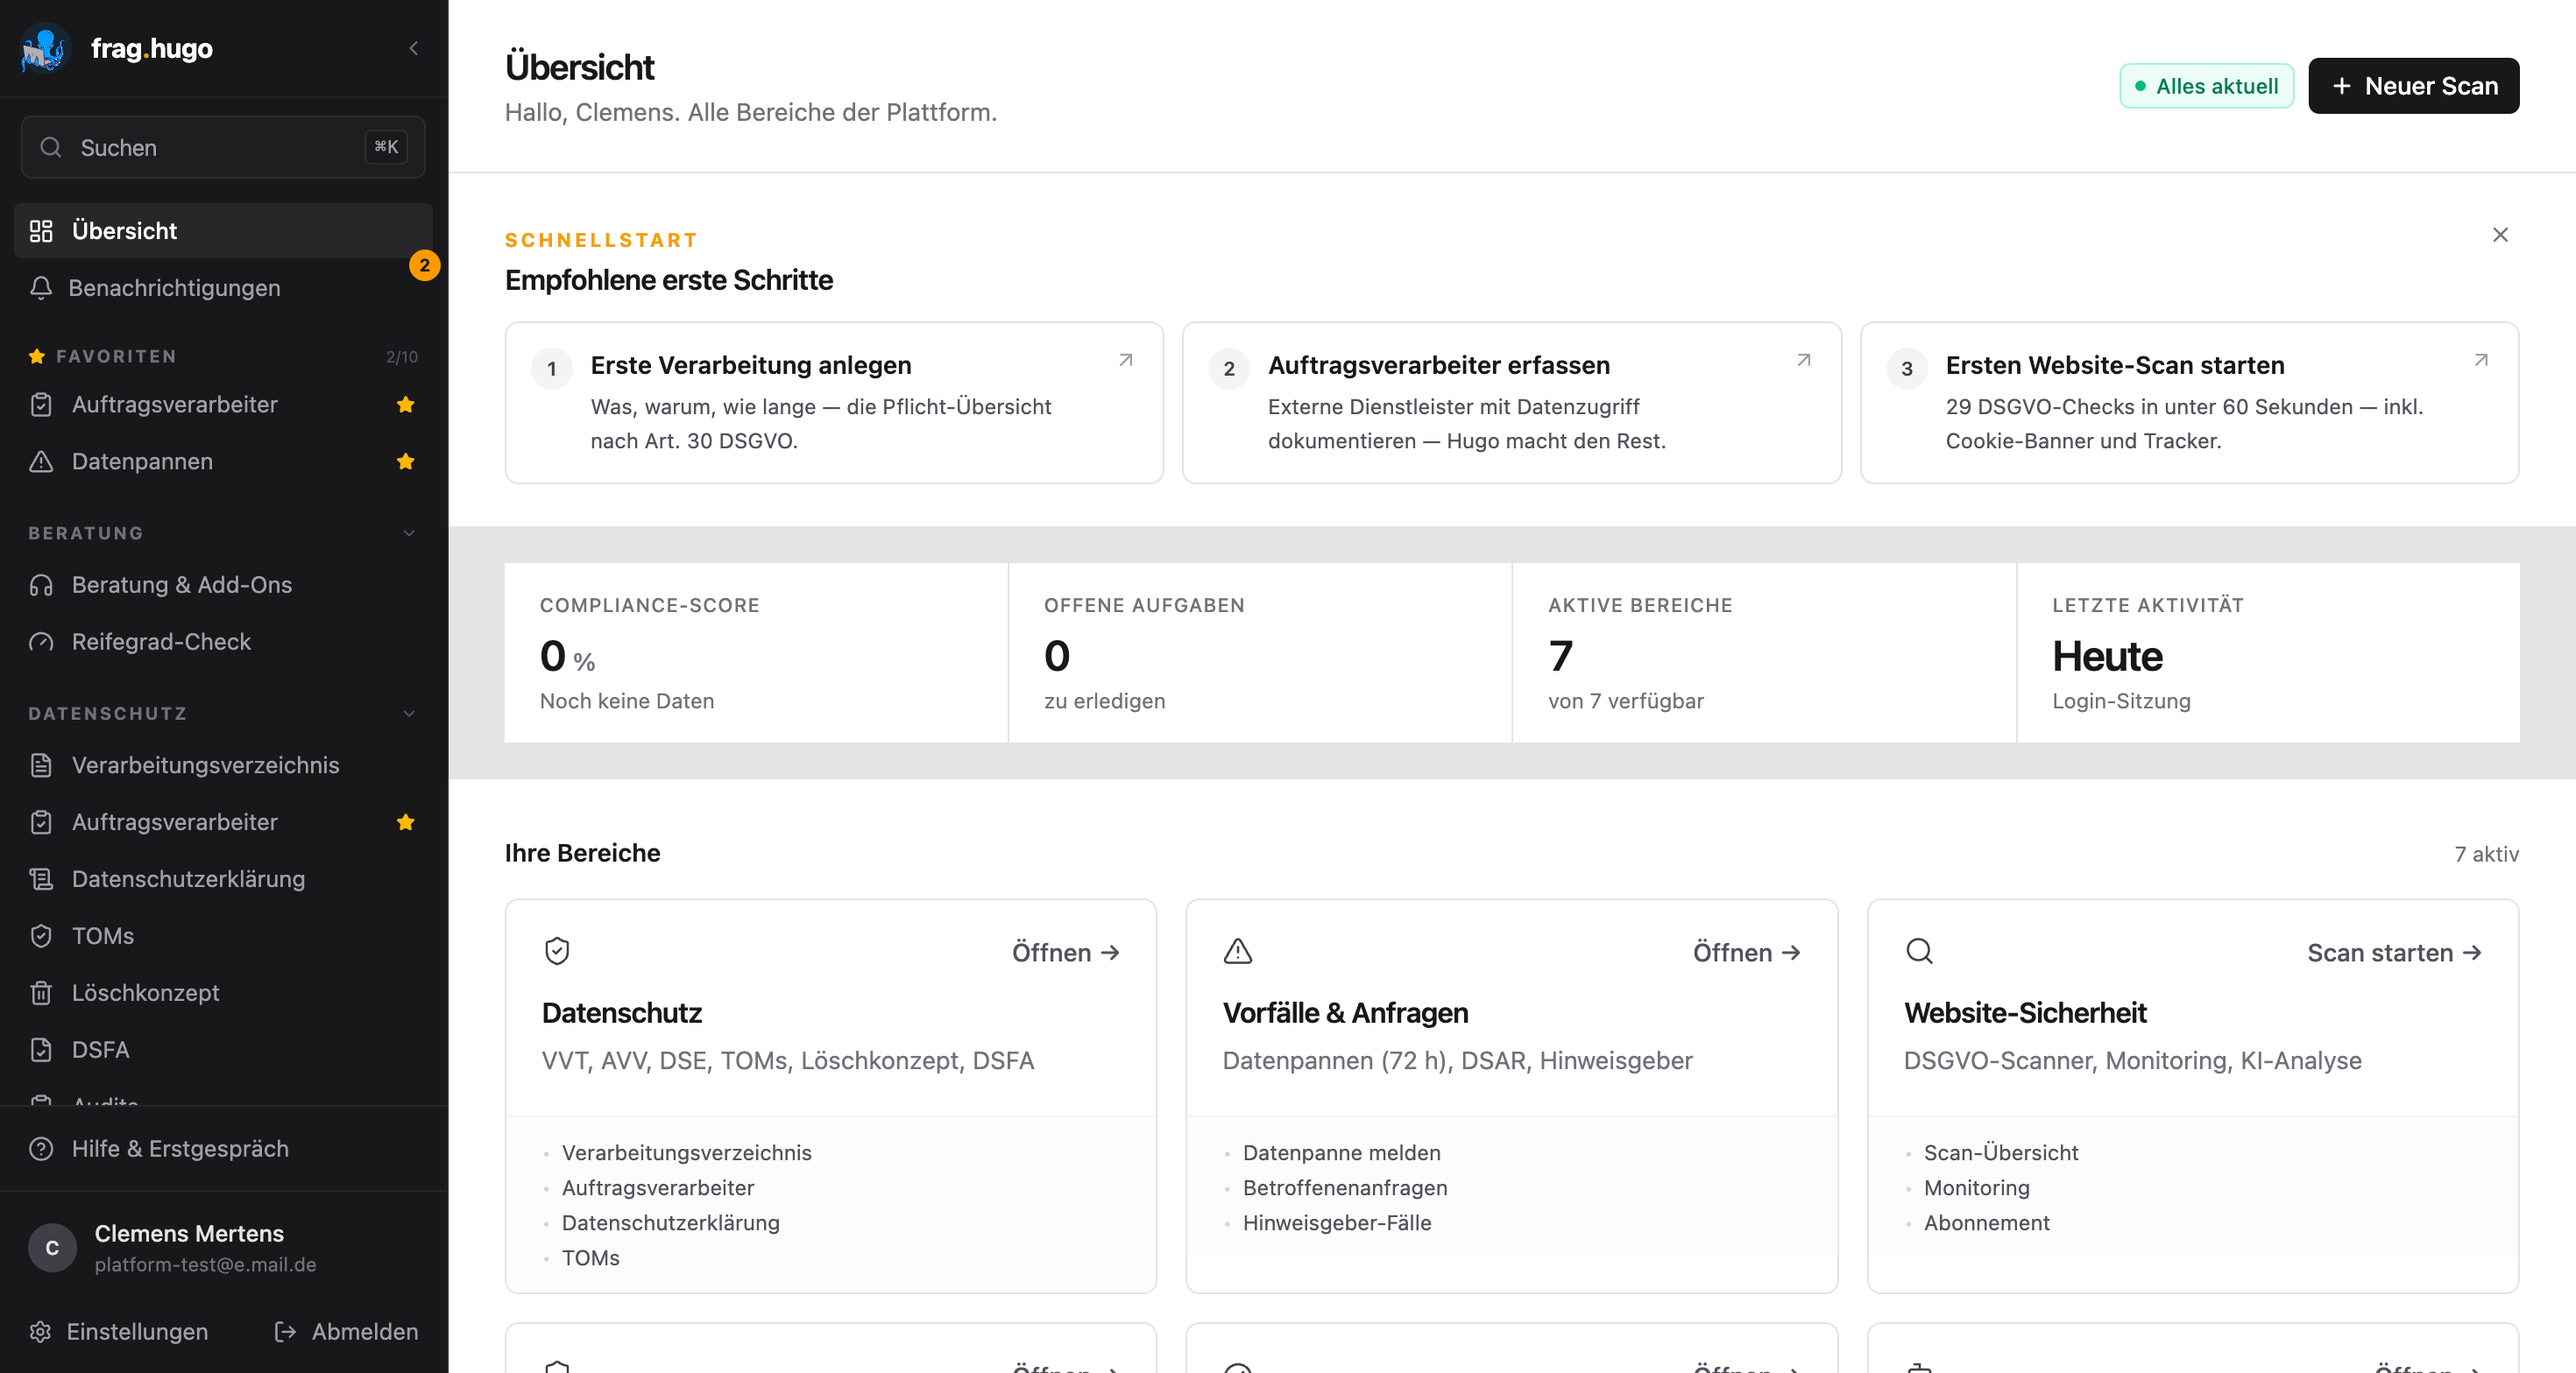
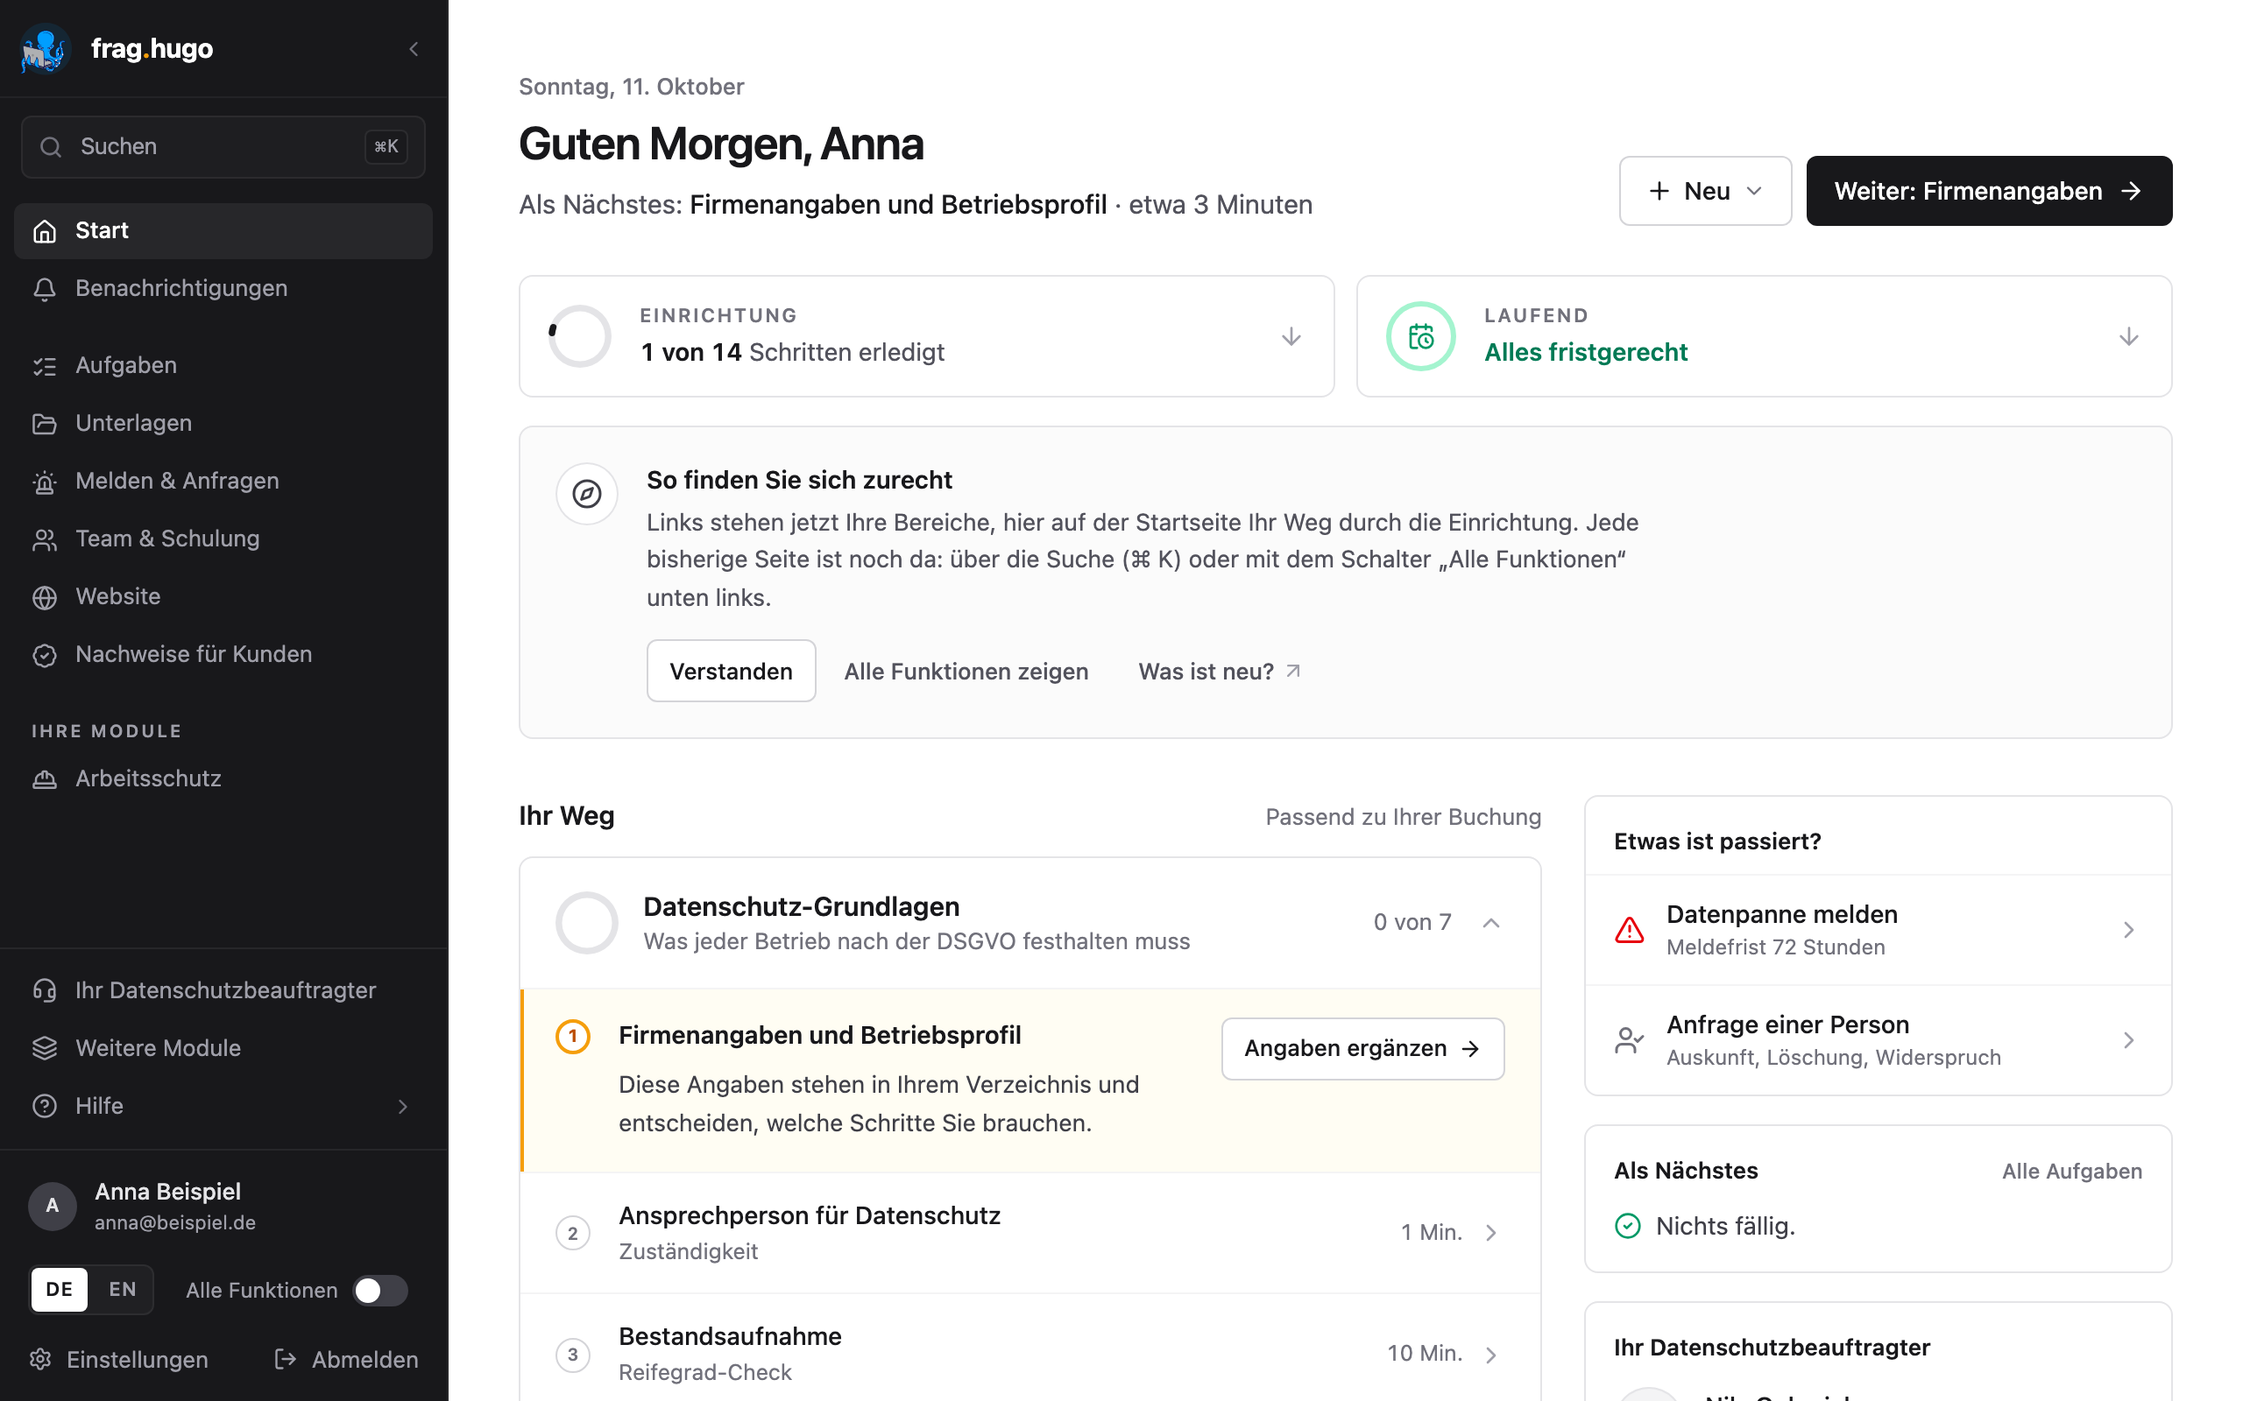
docs(erste-schritte): Startseite und Navigation auf Ihr Weg, Bereiche, Suche und Alle Funktionen umgestellt, Bilder Desktop+Handy erneuert, Trust-Badge-Pfad (A39) [skip ci]

diff --git a/src/content/docs/erste-schritte/dashboard.md b/src/content/docs/erste-schritte/dashboard.md
@@ -1,34 +1,58 @@
 ---
-title: Dashboard verstehen
-description: Die zentrale Startseite — Schnellstart, Compliance-Score, offene Aufgaben und alle Bereiche auf einen Blick.
+title: Startseite und Navigation
+description: Die Startseite mit „Ihr Weg“ durch die Einrichtung, die Bereiche in der Seitenleiste, die Suche und der Schalter „Alle Funktionen“.
 ---
 
-Wenn Sie eingeloggt sind, landest Sie immer hier. Das Dashboard ist Ihre Schaltzentrale.
+Nach der Anmeldung landen Sie auf der **Startseite**. Sie zeigt, was als Nächstes zu tun ist, und führt Sie mit **„Ihr Weg“** Schritt für Schritt durch die Einrichtung — passend zu dem, was Sie gebucht haben.
 
-![Dashboard mit Schnellstart und Bereichs-Karten](/screenshots/erste-schritte/dashboard.png)
+![Die Startseite: links die Bereiche, rechts „Ihr Weg“ mit dem nächsten Schritt](/screenshots/erste-schritte/dashboard.png)
 
-## Was Sie hier siehst
+## Die Startseite
 
-- **Schnellstart** — drei nummerierte Karten, was als nächstes zu tun ist. Erstes Mal eingeloggt? Hier sehen Sie "Erste Verarbeitung anlegen", "Auftragsverarbeiter erfassen", "Website-Scan starten". Sobald erledigt, verschwinden sie.
-- **Compliance-Score** (oben rechts) — eine Zahl 0–100 % über alle Bereiche hinweg. 100 % heißt: alle Pflichten aktuell, alle Reviews durch, keine offenen Aufgaben.
-- **Offene Aufgaben** — alles was auf Sie wartet: zu prüfende Dokumente, fällige Re-Audits, abgelaufene Schulungen.
-- **Letzte Aktivität** — Audit-Log der letzten Stunden (Wer hat was geändert).
-- **Ihre Bereiche** — Karten für Datenschutz, Vorfälle, Website-Sicherheit, Lieferkette, NIS2, KI-Compliance, Schulungen. Nur die Bereiche werden gezeigt, die Sie gebucht hast.
+- **Kopf** — Begrüßung und eine Zeile „Als Nächstes: …“ mit der ungefähren Dauer. Der schwarze Knopf **„Weiter: …“** führt direkt zum nächsten Schritt. Ist alles eingerichtet, entfällt er.
+- **„＋ Neu“** — ein Menü zum schnellen Anlegen: Verarbeitung, Dienstleister, Aufgabe, Mitarbeitende, Website-Prüfung, und zum Melden einer Datenpanne oder einer Anfrage einer Person. Sie sehen nur, was zu Ihrer Buchung gehört.
+- **Einrichtung** — wie viele Schritte Ihres Wegs erledigt sind („3 von 14“). Ein Klick springt zum Weg.
+- **Laufend** — ob Fristen anstehen: „Alles fristgerecht“, „bald fällig“ (innerhalb von sieben Tagen) oder „überfällig“.
+- **Ihr Weg** — die Einrichtungsschritte, gruppiert nach Themen wie „Datenschutz-Grundlagen“, „Team & Schulung“ oder „Website“. Aufgeklappt ist immer das Thema mit dem nächsten Schritt.
+- **Rechte Spalte** — „Etwas ist passiert?“ (Datenpanne melden, Anfrage einer Person erfassen), „Als Nächstes“ mit den fälligen Aufgaben und die Karte **„Ihr Datenschutzbeauftragter“**, falls Sie ihn bei uns gebucht haben.
 
-## Sidebar (links)
+### So funktioniert „Ihr Weg“
 
-Permanent sichtbare Navigation. Drei Tricks:
+- **Schritte haken sich selbst ab.** Ein Schritt gilt als erledigt, sobald das Ergebnis in der App steht — zum Beispiel die erste Verarbeitung angelegt oder der erste Dienstleister erfasst. Sie müssen nichts von Hand abhaken.
+- **Der aktuelle Schritt** ist gelb hinterlegt und erklärt in einem Satz, wozu er dient. Alle anderen Zeilen sind direkt anklickbar.
+- **„Übernimmt Ihr Datenschutzbeauftragter“** steht an Schritten, die Ihr Datenschutzbeauftragter für Sie erledigt.
+- **„Für Ihren Betrieb nicht nötig“** — Schritte, die laut Ihren Firmenangaben (Betriebsprofil) nicht gebraucht werden, zählen nicht mit. Über „Betriebsprofil ändern“ passen Sie das an.
+- **„freiwillig“** steht an Schritten, die sinnvoll sind, aber nicht zählen.
+- **Alles erledigt?** Dann schrumpft der Weg zu einer Zeile „Ihr Weg ist abgeschlossen“, und „Als Nächstes“ rückt nach oben.
 
-- **Favoriten** (Stern-Icon) — bis zu 10 Lieblings-Pages oben festpinnen, per Drag-Sortierung.
-- **Letzte** (Uhr-Icon) — automatische Liste der zuletzt besuchten Pages.
-- **Schnellsuche** (⌘ K bzw. Strg + K) — sucht über alle Funktionen und springt direkt hin.
+## Die Seitenleiste (links)
 
-## Header-Aktionen (oben rechts)
+Statt vieler Einzelpunkte stehen links **Bereiche**:
 
-- **🔔 Glocke** — Echtzeit-Benachrichtigungen (neue Datenpanne, fällige Schulung, beantwortete DSAR).
-- **Profil-Avatar** — Einstellungen, Abmelden, Mandanten-Wechsel falls Sie in mehreren Firmen arbeitest.
+- **Oben:** die **Suche**, **Start** und **Benachrichtigungen**. Darunter Seiten, die Sie angepinnt haben.
+- **Bereiche** wie „Aufgaben“, „Unterlagen“, „Melden & Anfragen“, „Team & Schulung“, „Website“ und „Nachweise für Kunden“. Ein Klick öffnet den Bereich; der Bereich, in dem Sie gerade sind, zeigt darunter seine einzelnen Seiten.
+- **Ihre Module** — Zusatzprodukte wie KI im Unternehmen, NIS2, Informationssicherheit, Hersteller-Pflichten, Arbeitsschutz oder Lieferkette, soweit gebucht.
+- **Unten:** „Ihr Datenschutzbeauftragter“ (Beratung und Stunden), „Weitere Module“ (was Sie dazubuchen können) und **„Hilfe“** mit der Hilfe zu der Seite, auf der Sie gerade sind, einem Link zur Terminbuchung und zu Beratung & Kontakt.
+- **Ganz unten:** Ihr Name, die Sprache (DE | EN), **Einstellungen**, **Abmelden** und der Schalter **„Alle Funktionen“**.
+
+Auf jeder Unterseite steht über dem Inhalt ein kleiner Link **„‹ Bereich“**, der zurück zur Übersicht des Bereichs führt.
+
+### „Alle Funktionen“ — die vollständige Liste
+
+Wenn Sie lieber jeden Menüpunkt einzeln sehen, schalten Sie unten in der Seitenleiste **„Alle Funktionen“** ein. Die App merkt sich die Einstellung für Ihr Konto; Sie können jederzeit zurückschalten. Wo jeder frühere Menüpunkt jetzt steht, zeigt die Tabelle auf [Was ist neu](/erste-schritte/was-ist-neu/).
+
+## Suche
+
+<kbd>⌘</kbd> <kbd>K</kbd> (Mac) bzw. <kbd>Strg</kbd> <kbd>K</kbd> (Windows) oder ein Klick auf „Suchen“ öffnet die Suche. Sie findet jede Seite — unter dem neuen Namen und unter dem Fachwort („VVT“, „TOMs“, „Löschkonzept“, „DSFA“). Bei leerem Suchfeld stehen oben die **zuletzt besuchten** Seiten, darunter die Gruppe **„Anlegen“** mit denselben Einträgen wie das Menü „＋ Neu“.
+
+## Auf dem Handy
+
+![Die Startseite auf dem Handy mit Kopfleiste, Weiter-Knopf und „Etwas ist passiert?“](/screenshots/erste-schritte/startseite-handy.png)
+
+Oben steht eine feste Kopfleiste: links das **Menü** (es enthält alles, was am Computer in der Seitenleiste steht, auch den Schalter „Alle Funktionen“), rechts die **Lupe** für die Suche. Auf Unterseiten zeigt die Kopfleiste den Bereich als Link zurück. „Datenpanne melden“ und „Anfrage einer Person erfassen“ stehen auf dem Handy direkt unter dem Weiter-Knopf.
 
 ## Tipps
 
-- Auf das Bereich-Logo links oben klicken bringt Sie immer zurück hier.
-- Wenn der Schnellstart genervt — "Ausblenden" oben rechts in der Karte. Sie können ihn unter Einstellungen wieder anschalten.
+- Ein Klick auf das Logo oben links bringt Sie immer zurück zur Startseite.
+- **Benachrichtigungen** stehen in der Seitenleiste direkt unter „Start“; ein Punkt zeigt Ungelesenes ([mehr dazu](/erste-schritte/notifications/)).
+- Den Hinweis „So finden Sie sich zurecht“ schließen Sie mit „Verstanden“ — er erscheint danach nicht wieder.

diff --git a/src/content/docs/erste-schritte/uebersicht.md b/src/content/docs/erste-schritte/uebersicht.md
@@ -1,14 +1,16 @@
 ---
 title: Erste Schritte
-description: Account erstellen, Dashboard verstehen, Tarif wählen — was Sie als Erstes wissen musst.
+description: Account erstellen, Startseite und „Ihr Weg“ verstehen, Tarif wählen — was Sie als Erstes wissen müssen.
 ---
 
-Willkommen bei frag.hugo. Diese Sektion deckt das Grundgerüst ab.
+Willkommen bei frag.hugo. Nach der Anmeldung zeigt Ihnen die Startseite mit **„Ihr Weg“**, welche Schritte für Ihre Buchung anstehen — in der richtigen Reihenfolge, mit ungefährer Dauer. Erledigte Schritte haken sich selbst ab. Links in der Seitenleiste stehen Ihre **Bereiche**; jede Seite finden Sie außerdem über die Suche (<kbd>⌘</kbd> <kbd>K</kbd> bzw. <kbd>Strg</kbd> <kbd>K</kbd>).
+
+Sie kennen die App von früher? Auf **[Was ist neu](/erste-schritte/was-ist-neu/)** steht, wo jeder bisherige Menüpunkt jetzt zu finden ist.
 
 ## Schnelles Onboarding
 
 1. **[Account erstellen](/erste-schritte/account-erstellen/)** — Registrierung, Bestätigungs-Mail, Onboarding-Fragen.
-2. **[Dashboard verstehen](/erste-schritte/dashboard/)** — Schnellstart, Compliance-Score, Sidebar-Tricks.
+2. **[Startseite und Navigation](/erste-schritte/dashboard/)** — „Ihr Weg“, Bereiche, Suche, Schalter „Alle Funktionen“.
 3. **[Einstellungen](/erste-schritte/einstellungen/)** — Profil, Firmendaten, Logo, Mandanten.
 4. **[Tarif wählen / Upgrade](/erste-schritte/upgrade/)** — was kostet was, wie Plan wechseln.
 5. **[Benachrichtigungen](/erste-schritte/notifications/)** — die Glocke und was sie meldet.
@@ -16,6 +18,7 @@ Willkommen bei frag.hugo. Diese Sektion deckt das Grundgerüst ab.
 ## Sprachgebrauch
 
 - **Mandant** = die Firma, deren Compliance Sie verwalten. Wenn Sie externer DSB sind, haben Sie oft mehrere.
-- **Bereich** = Hauptmenüpunkt-Gruppe in der Sidebar (Datenschutz, Vorfälle, ...).
+- **Bereich** = ein Eintrag in der Seitenleiste, der zusammengehörige Seiten bündelt (Unterlagen, Melden & Anfragen, Team & Schulung, …).
+- **Ihr Weg** = die Einrichtungsschritte auf der Startseite, passend zu Ihrer Buchung.
 - **Hugo** = der KI-Assistent in der Plattform. Hilft bei VVT-Erstellung, AVV-Bewertung, DSE-Generator, etc.
 - **Externer DSB** = wenn Ihre Firma keinen internen Datenschutzbeauftragten hat — wir bieten das als Service ([fraghugo.de/datenschutz](https://www.fraghugo.de/datenschutz/)).

diff --git a/src/content/docs/website-it-sicherheit/trust-badge.md b/src/content/docs/website-it-sicherheit/trust-badge.md
@@ -37,7 +37,7 @@ Sie erhalten eine Bestätigungsmail. Klicken Sie auf den Link, dann sind Sie ein
 
 ## 2. Website scannen
 
-Klicken Sie in der Seitenleiste auf **„Neuer Scan"** unter „Website & IT-Sicherheit".
+Klicken Sie in der Seitenleiste auf den Bereich **„Website“** und dort auf **„Website prüfen“** — oder auf der Startseite auf **„＋ Neu“ › „Website-Prüfung“**.
 
 ![Scan-Formular leer](/screenshots/badge-tutorial/05-scan-eingabe-leer.png)
 
